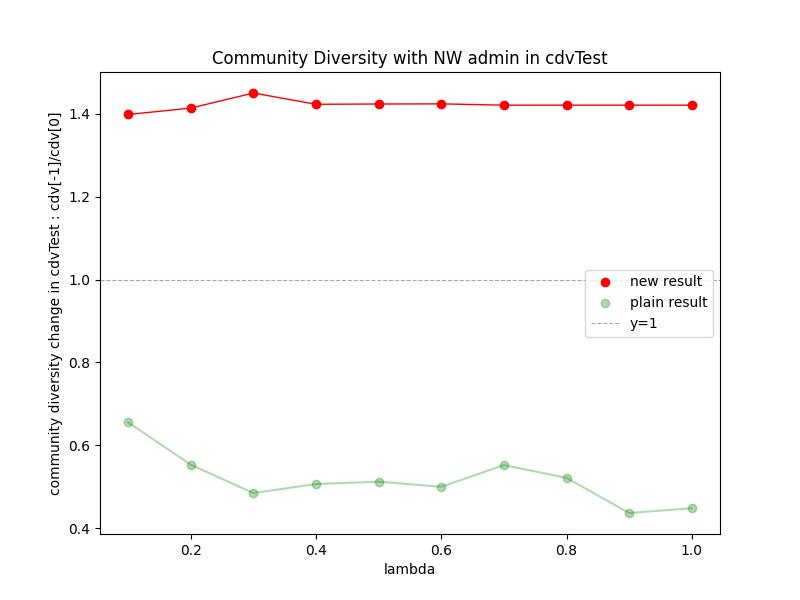
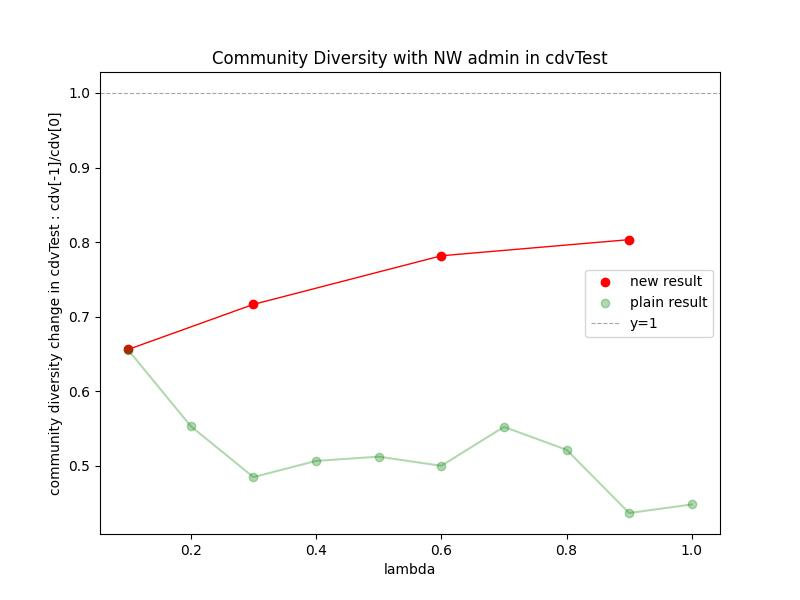
??

diff --git a/my_research/main/GIFCreator.java b/my_research/main/GIFCreator.java
@@ -1,10 +1,6 @@
-
-import org.apache.commons.math3.linear.*;
 import java.awt.*;
 import java.awt.image.BufferedImage;
 import com.madgag.gif.fmsware.AnimatedGifEncoder;
-import java.io.FileWriter;
-import java.io.IOException;
 
 public class GIFCreator {
 
@@ -18,29 +14,9 @@ public class GIFCreator {
         int height = 400; // 画像の高さ
 
         int step = 0;
-        for (Triple<Double, double[], double[][]> entry : GIFMaker.histogramsWithAdjacency) {
+        for (Pair<Double, int[]> entry : GIFMaker.lambdasWithHistogram) {
             double lambda = entry.getKey();
-            double[] z = entry.getValue1();
-            double[][] adjacencyMatrix = entry.getValue2();
-            int numBins = 20;
-
-            int[] bins = new int[numBins];
-            double binWidth = 1.0 / numBins;
-
-            // 度数分布を計算
-            for (double value : z) {
-                int binIndex = (int) Math.min(value / binWidth, numBins - 1);
-                bins[binIndex]++;
-            }
-
-            // 隣接行列をCSVに出力
-            saveAdjacencyMatrixToCSV(step, adjacencyMatrix);
-
-            // zの情報をCSVに出力
-            saveZToCSV(step, z);
-
-            // λの情報をCSVに出力
-            saveLambdaToCSV(step, lambda);
+            int[] bins = entry.getValue();
 
             // 画像生成
             BufferedImage image = new BufferedImage(width, height, BufferedImage.TYPE_INT_RGB);
@@ -61,48 +37,6 @@ public class GIFCreator {
 
         gifEncoder.finish();
         System.out.println("GIF created: " + outputFileName);
-    }
-
-    private static void saveAdjacencyMatrixToCSV(int step, double[][] adjacencyMatrix) {
-        String fileName = String.format("Temp/graph_step%d.csv", step);
-        try (FileWriter writer = new FileWriter(fileName)) {
-            // 隣接行列を保存
-            for (double[] row : adjacencyMatrix) {
-                for (int j = 0; j < row.length; j++) {
-                    writer.append(String.valueOf(row[j]));
-                    if (j < row.length - 1) {
-                        writer.append(",");
-                    }
-                }
-                writer.append("\n");
-            }
-        } catch (IOException e) {
-            e.printStackTrace();
-        }
-    }
-
-    // zの情報をCSVに出力
-    private static void saveZToCSV(int step, double[] z) {
-        String fileName = String.format("Temp/z_step%d.csv", step);
-        try (FileWriter writer = new FileWriter(fileName)) {
-            // zの各値を保存
-            for (double value : z) {
-                writer.append(String.valueOf(value)).append("\n");
-            }
-        } catch (IOException e) {
-            e.printStackTrace();
-        }
-    }
-
-    // λの情報をCSVに出力
-    private static void saveLambdaToCSV(int step, double lambda) {
-        String fileName = String.format("Temp/lambda_step%d.csv", step);
-        try (FileWriter writer = new FileWriter(fileName)) {
-            // λの値を保存
-            writer.append(String.valueOf(lambda)).append("\n");
-        } catch (IOException e) {
-            e.printStackTrace();
-        }
     }
 
     private static void drawBarGraph(Graphics2D g2d, int[] bins, double lambda, int width, int height) {
@@ -156,6 +90,6 @@ public class GIFCreator {
     }
 
     public static void main(String[] args) {
-        createGIF("output_with_adjacency_and_z.gif");
+        createGIF("z_distribution.gif");
     }
 }

diff --git a/my_research/main/GIFMaker.java b/my_research/main/GIFMaker.java
@@ -1,55 +1,44 @@
-
 import java.util.ArrayList;
 import java.util.List;
-import main.utils.Constants;
 
 public class GIFMaker {
 
-    // λ、度数分布、隣接行列を格納するデータ構造
-    public static List<Triple<Double, double[], double[][]>> histogramsWithAdjacency = new ArrayList<>();
-    private static final int numBins = 20;
+    // λと度数分布を格納するデータ構造
+    public static List<Pair<Double, int[]>> lambdasWithHistogram = new ArrayList<>();
 
-    // 度数分布と隣接行列を記録する関数
-    public static void recordHistogram(double lambda, double[] z, double[][] adjacencyMatrix) {
+    // z[]を記録する関数
+    public static void recordHistogram(double lambda, double[] z) {
+        int numBins = 20;
+        int[] bins = new int[numBins];
+        double binWidth = 1.0 / numBins;
 
-        for (int i = 0; i < z.length; i++) {
-            for (int j = 0; j < z.length; j++) {
-                if (adjacencyMatrix[i][j] < Constants.LINK_THRES) {
-                    adjacencyMatrix[i][j] = 0;
-                }
-                /*else{
-                    adjacencyMatrix[i][j] = 1;
-                }*/
-            }
+        // 度数分布を計算
+        for (double value : z) {
+            int binIndex = (int) Math.min(value / binWidth, numBins - 1);
+            bins[binIndex]++;
         }
 
-        // λ、ヒストグラム、隣接行列をペアで保存
-        histogramsWithAdjacency.add(new Triple<>(lambda, z, adjacencyMatrix));
+        // λと度数分布をペアで保存
+        lambdasWithHistogram.add(new Pair<>(lambda, bins));
     }
 }
 
-// λ、ヒストグラム、隣接行列を表すトリプルクラス
-class Triple<K, V, T> {
+// λと度数分布を表すペアクラス
+class Pair<K, V> {
 
-    private final K key;
-    private final V value1;
-    private final T value2;
+    private final K key;  // λ
+    private final V value;  // 度数分布
 
-    public Triple(K key, V value1, T value2) {
+    public Pair(K key, V value) {
         this.key = key;
-        this.value1 = value1;
-        this.value2 = value2;
+        this.value = value;
     }
 
     public K getKey() {
         return key;
     }
 
-    public V getValue1() {
-        return value1;
-    }
-
-    public T getValue2() {
-        return value2;
+    public V getValue() {
+        return value;
     }
 }

diff --git a/my_research/main/AdminGame.java b/my_research/main/AdminGame.java
@@ -51,7 +51,7 @@ public class AdminGame {
         ArrayList<Double> cdv = new ArrayList<>();
         cdv.add(calculater.computeCdv(z, W, communities));
 
-        //GIFMaker.recordHistogram(0.0, z, W);
+        GIFMaker.recordHistogram(0.0, z);
 
         int i = 0;
         boolean flag = true;
@@ -184,7 +184,7 @@ public class AdminGame {
 
             i++;
             
-            //GIFMaker.recordHistogram(lam, z, W);
+            GIFMaker.recordHistogram(lam, z);
             simulation.updateGraph(z, W);
             simulation.exportGraph(i);
             

diff --git a/my_research/main/utils/Constants.java b/my_research/main/utils/Constants.java
@@ -11,7 +11,7 @@ public class Constants {
     public static final double W_THRES = 0.1;
     public static final int MAT_ITERATION = 50;
     //public static final double[] LAMBDA_ARRAY = { 0.1, 0.2, 0.3, 0.4, 0.5, 0.6, 0.7, 0.8, 0.9, 1.0 };
-    public static final double[] LAMBDA_ARRAY = { 0.1, 0.6};
+    public static final double[] LAMBDA_ARRAY = { 0.1, 0.3,0.6,0.9};
 
 
     //リンクのランダム追加アルゴリズムの定数

diff --git a/my_research/main/utils/calculater.java b/my_research/main/utils/calculater.java
@@ -298,7 +298,7 @@ public class calculater {
 
             // 最小重みのリンクを探索
             for (int j = 0; j < n; j++) {
-                if (W[i][j] > 0.01) {
+                if (W[i][j] > 0.1) {
                     double diff = Math.abs(z[i] - z[j]);
                     if (diff > maxDiff) {
                         maxDiff = diff;

diff --git a/my_research/main/Main.java b/my_research/main/Main.java
@@ -58,7 +58,7 @@ public class Main {
             plotResults.exportCdv(resultPair, "Test", lamvals);
         }
 
-        //GIFCreator.createGIF("output.gif");
+        GIFCreator.createGIF("output.gif");
 
         scanner.close();
     }
